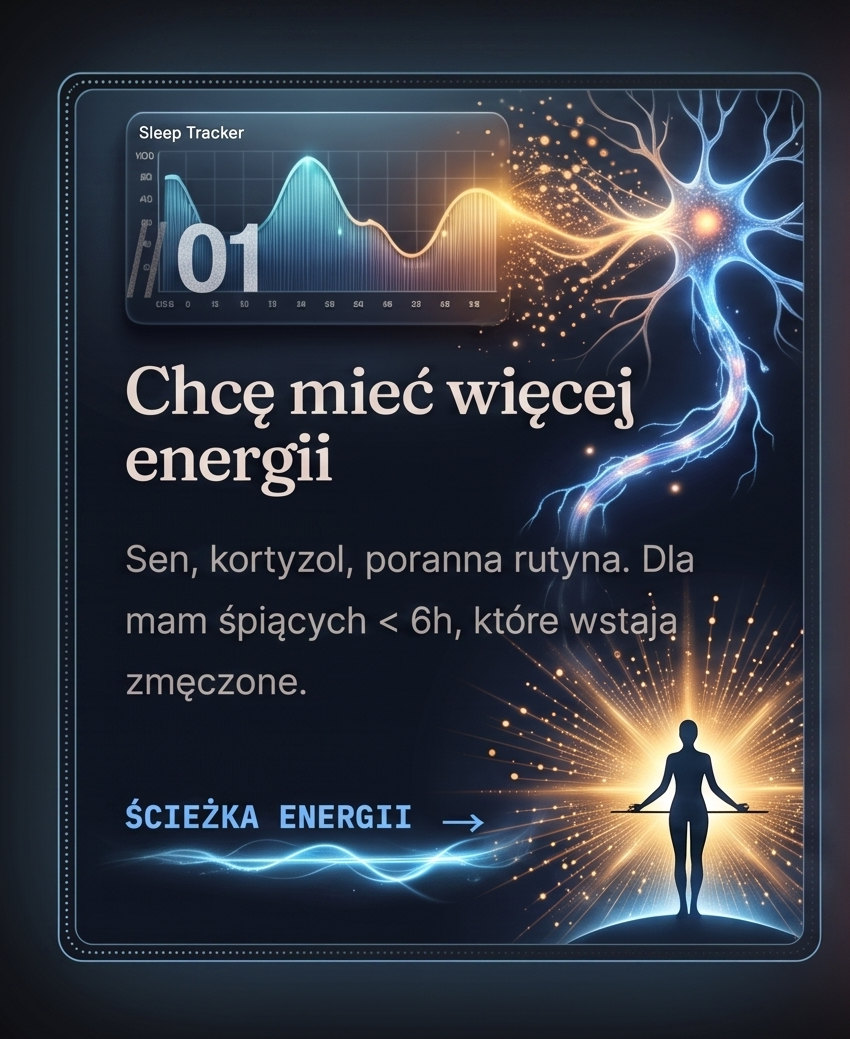
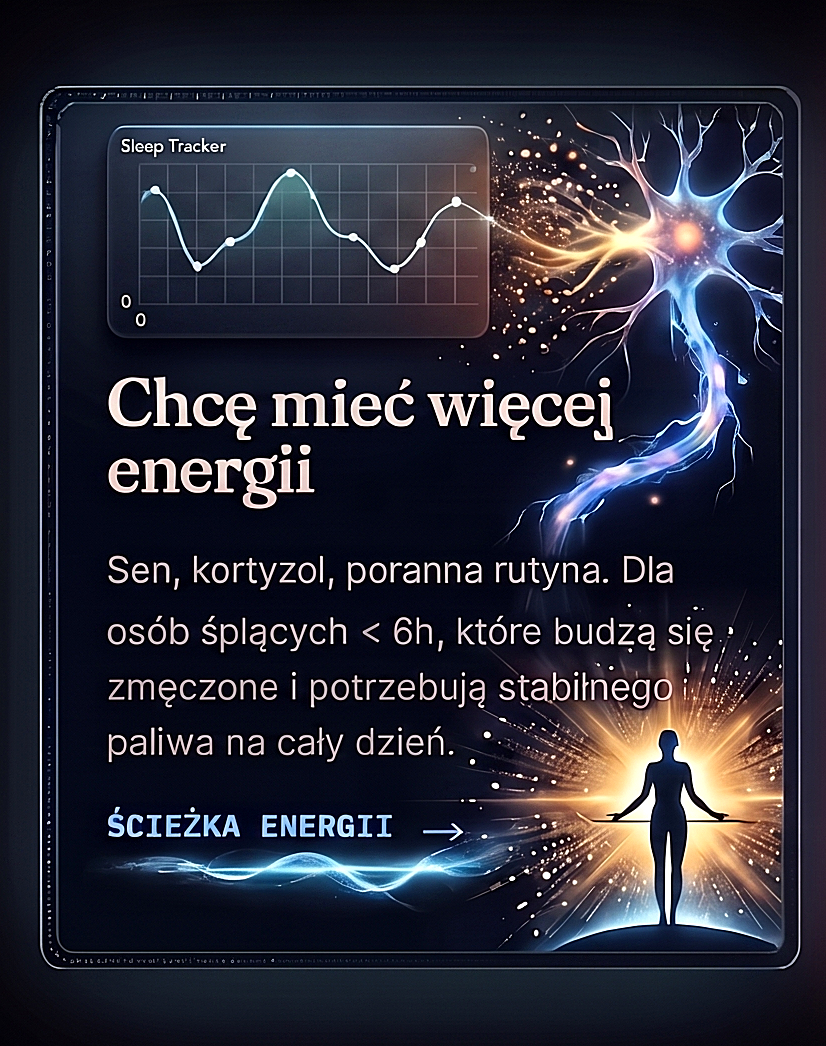
StartHere: powrot do czystych kart tekstowych (bez grafik Gemini) + inkluzywny copy

diff --git a/components/lab-rose/StartHere.tsx b/components/lab-rose/StartHere.tsx
@@ -1,56 +1,46 @@
 'use client'
 
 import Link from 'next/link'
-import Image from 'next/image'
 import { motion } from 'framer-motion'
 
 const EASE = [0.22, 1, 0.36, 1] as const
 
 const stagger = {
   hidden: { opacity: 0 },
-  visible: { opacity: 1, transition: { staggerChildren: 0.14 } },
+  visible: { opacity: 1, transition: { staggerChildren: 0.12 } },
 }
 const fadeUp = {
-  hidden: { opacity: 0, y: 24, filter: 'blur(4px)' },
-  visible: { opacity: 1, y: 0, filter: 'blur(0px)', transition: { duration: 0.8, ease: EASE } },
+  hidden: { opacity: 0, y: 18, filter: 'blur(4px)' },
+  visible: { opacity: 1, y: 0, filter: 'blur(0px)', transition: { duration: 0.7, ease: EASE } },
 }
 
 const paths = [
   {
-    img: '/images/path-01-energia.png?v=2',
-    w: 807,
-    h: 969,
-    alt: 'Chcę mieć więcej energii — sen, kortyzol, poranna rutyna dla zmęczonych mam',
-    label: 'Chcę mieć więcej energii',
+    num: '01',
+    title: 'Chcę mieć więcej energii',
+    desc: 'Sen, kortyzol, poranna rutyna. Dla osób śpiących < 6h, które budzą się zmęczone i potrzebują stabilnego paliwa na cały dzień.',
+    cta: 'Ścieżka energii',
     href: '/blog?pilar=energia',
-    glow: 'rgba(91,200,245,0.35)',
-    glowStrong: 'rgba(91,200,245,0.55)',
   },
   {
-    img: '/images/path-02-hormony.png?v=2',
-    w: 815,
-    h: 1004,
-    alt: 'Chcę zadbać o hormony — cykl, tarczyca, hormony stresu dla kobiet po 30',
-    label: 'Chcę zadbać o hormony',
+    num: '02',
+    title: 'Chcę zadbać o hormony',
+    desc: 'Cykl, tarczyca, hormony stresu. Dla kobiet, które czują, że ich ciało straciło wewnętrzną równowagę i „coś w nim nie gra”.',
+    cta: 'Ścieżka hormonów',
     href: '/blog?pilar=hormony',
-    glow: 'rgba(232,174,189,0.30)',
-    glowStrong: 'rgba(168,212,61,0.30)',
   },
   {
-    img: '/images/path-03-longevity.png?v=2',
-    w: 859,
-    h: 1076,
-    alt: 'Chcę żyć 100 lat — longevity, post przerywany, biomarkery',
-    label: 'Chcę żyć 100 lat',
+    num: '03',
+    title: 'Chcę żyć 100 lat',
+    desc: 'Longevity, autofagia i głęboka regeneracja komórkowa. Dla osób, które chcą przejąć kontrolę nad procesem starzenia i zachować sprawne ciało oraz umysł.',
+    cta: 'Ścieżka longevity',
     href: '/blog?pilar=longevity',
-    glow: 'rgba(126,217,87,0.35)',
-    glowStrong: 'rgba(126,217,87,0.55)',
   },
 ]
 
 export default function StartHere() {
   return (
-    <section id="zacznij" style={{ padding: 'clamp(4rem, 9vw, 8rem) 0', background: '#0B0B0C' }}>
+    <section id="zacznij" style={{ padding: 'clamp(4rem, 9vw, 8rem) 0' }}>
       <div className="max-w-6xl mx-auto px-6 md:px-12 lg:px-16">
         <motion.div
           initial={{ opacity: 0, y: 18, filter: 'blur(4px)' }}
@@ -69,51 +59,56 @@ export default function StartHere() {
         </motion.div>
 
         <motion.div
-          className="grid grid-cols-1 md:grid-cols-3 gap-5 lg:gap-6 items-start"
+          className="grid grid-cols-1 md:grid-cols-3 gap-px"
+          style={{ background: 'var(--lr-rule)' }}
           variants={stagger}
           initial="hidden"
           whileInView="visible"
           viewport={{ once: true, margin: '-80px' }}
         >
-          {paths.map((c) => (
-            <motion.div key={c.img} variants={fadeUp}>
-              <motion.div
-                whileHover={{ y: -6 }}
-                transition={{ duration: 0.35, ease: EASE }}
-                className="group relative"
-                style={{
-                  borderRadius: '16px',
-                  boxShadow: `0 18px 64px -16px ${c.glow}, 0 0 50px -28px ${c.glowStrong}`,
-                }}
+          {paths.map((c, i) => (
+            <motion.article
+              key={i}
+              variants={fadeUp}
+              style={{
+                background: 'var(--lr-bg)',
+                padding: 'clamp(2rem, 4vw, 3rem)',
+                position: 'relative',
+              }}
+            >
+              <span
+                className="lr-mono"
+                style={{ color: 'var(--lr-ink-dim)', fontSize: '0.6875rem' }}
               >
-                <Link
-                  href={c.href}
-                  aria-label={c.label}
-                  className="block relative overflow-hidden"
-                  style={{ borderRadius: '16px', textDecoration: 'none' }}
+                // {c.num}
+              </span>
+              <h3 className="mt-6 mb-4" style={{ color: 'var(--lr-ink)' }}>
+                {c.title}
+              </h3>
+              <p style={{ fontSize: '0.95rem' }}>{c.desc}</p>
+              <Link
+                href={c.href}
+                className="mt-8 inline-flex items-center gap-3 group"
+                style={{ textDecoration: 'none' }}
+              >
+                <span
+                  className="lr-mono"
+                  style={{ color: 'var(--lr-accent)', fontSize: '0.75rem' }}
                 >
-                  <Image
-                    src={c.img}
-                    alt={c.alt}
-                    width={c.w}
-                    height={c.h}
-                    className="w-full h-auto block"
-                    sizes="(max-width: 768px) 100vw, 33vw"
-                  />
-                  {/* Hover glow overlay */}
-                  <span
-                    aria-hidden
-                    className="absolute inset-0 opacity-0 group-hover:opacity-100"
-                    style={{
-                      borderRadius: '16px',
-                      boxShadow: `inset 0 0 0 1px ${c.glowStrong}, inset 0 0 60px -20px ${c.glow}`,
-                      transition: 'opacity 350ms var(--ease-out-strong)',
-                      pointerEvents: 'none',
-                    }}
-                  />
-                </Link>
-              </motion.div>
-            </motion.div>
+                  {c.cta}
+                </span>
+                <span
+                  style={{
+                    color: 'var(--lr-accent)',
+                    transition: 'transform 240ms var(--ease-out-strong)',
+                    display: 'inline-block',
+                  }}
+                  className="group-hover:translate-x-1"
+                >
+                  →
+                </span>
+              </Link>
+            </motion.article>
           ))}
         </motion.div>
       </div>
